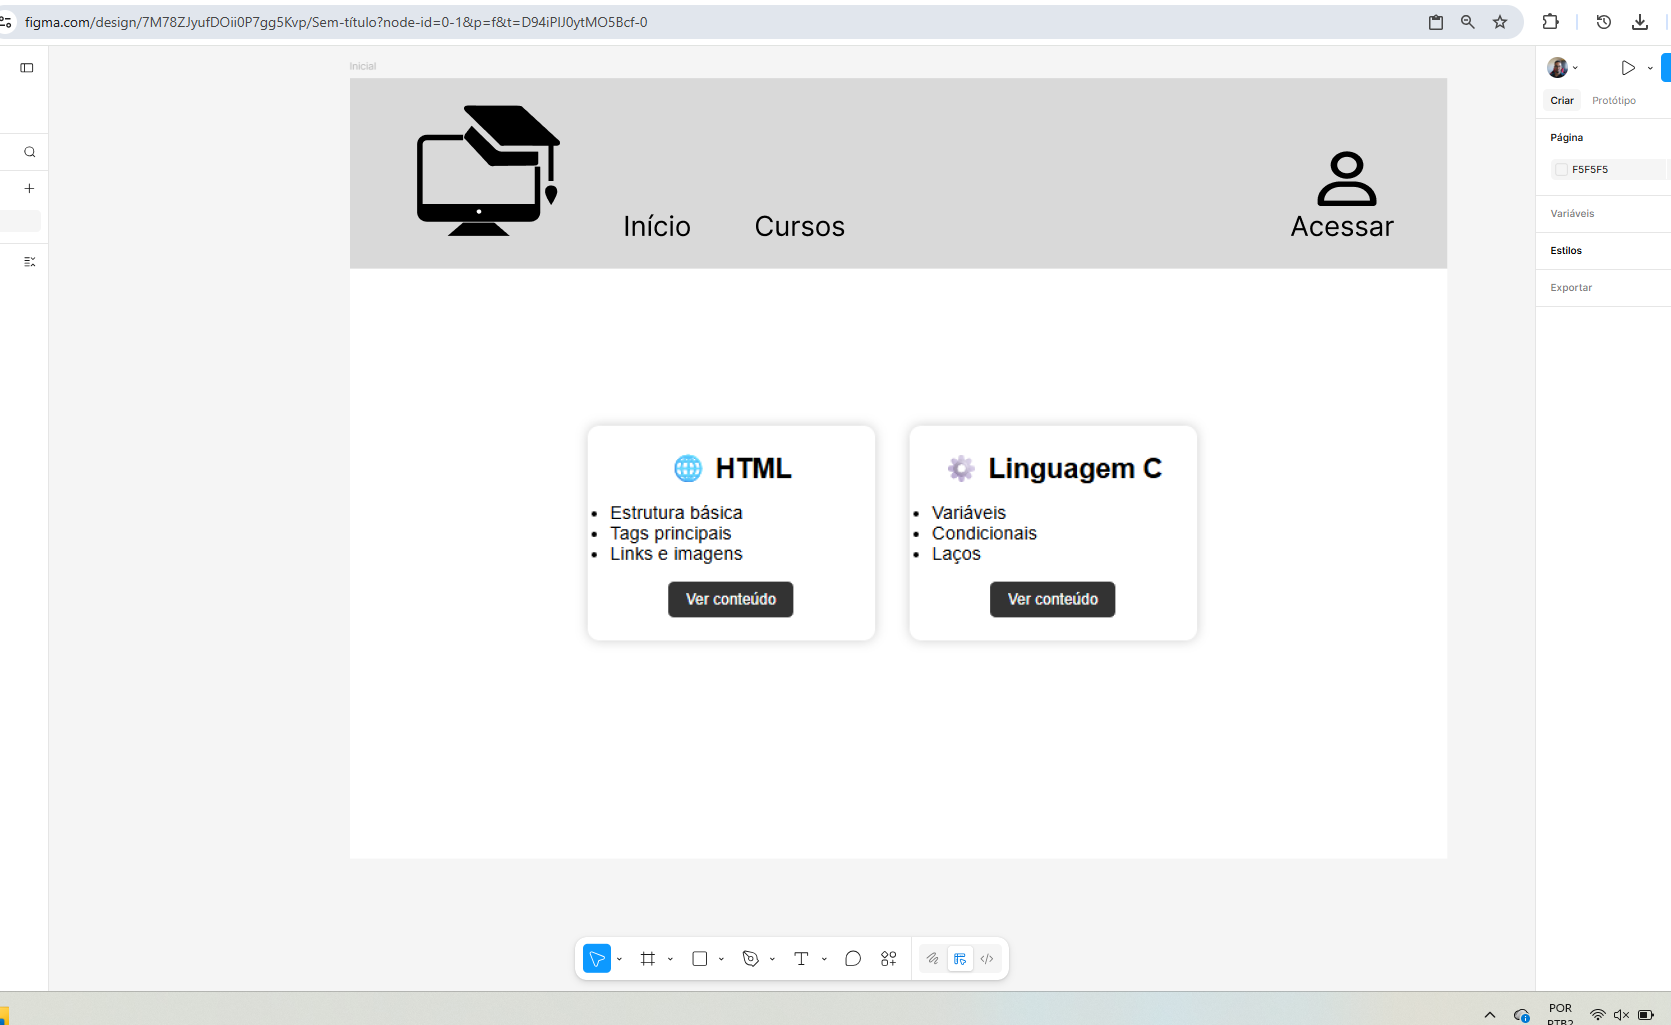
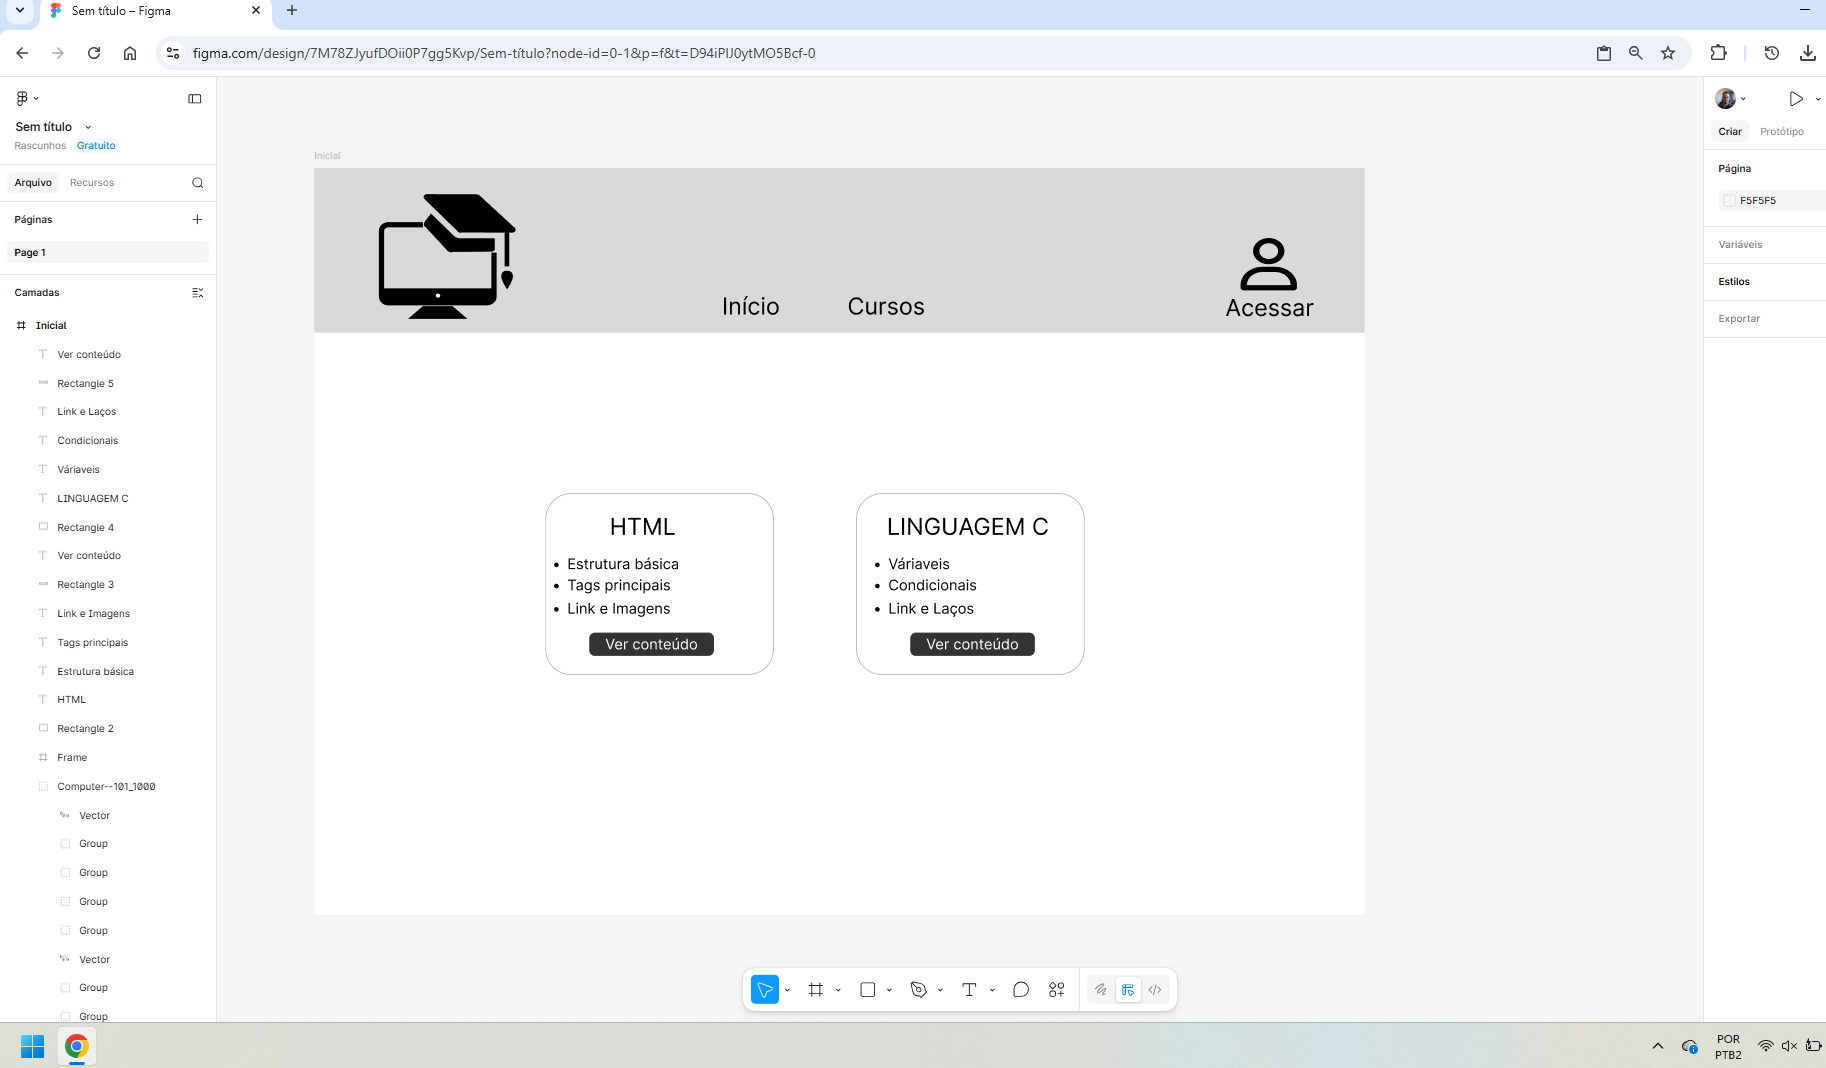
começando a criar

diff --git a/site/css/index.css b/site/css/index.css
@@ -1,0 +1,101 @@
+/* RESET BÁSICO */
+* {
+    margin: 0;
+    padding: 0;
+    box-sizing: border-box;
+    font-family: Arial, sans-serif;
+}
+
+/* HEADER */
+header {
+    background: #D9D9D9;
+    display: flex;
+    justify-content: space-between;
+    align-items: flex-end;
+    padding: 15px 40px;
+}
+
+
+/* LOGO */
+.logo {
+    font-size: 24px;
+}
+
+/* MENU */
+nav {
+    display: flex;
+    gap: 40px;
+}
+
+nav a {
+    text-decoration: none;
+    color: black;
+    font-size: 24px;
+}
+
+/* LOGIN (ícone em cima e texto embaixo) */
+.login {
+    display: flex;
+    flex-direction: column; /* ESSA LINHA faz o texto ir pra baixo */
+    align-items: center;
+    font-size: 22px;
+    cursor: pointer;
+}
+
+.login .icon {
+    font-size: 24px;
+}
+
+/* ÁREA PRINCIPAL */
+main {
+    height: calc(100vh - 80px);
+    display: flex;
+    justify-content: center;
+    align-items: center;
+}
+
+/* CONTAINER DOS CARDS */
+.container {
+    display: flex;
+    gap: 40px;
+}
+
+/* CARD */
+.card {
+    background: #eaeaea;
+    padding: 25px;
+    width: 260px;
+    border-radius: 12px;
+    box-shadow: 0 5px 10px rgba(0,0,0,0.15);
+    text-align: center;
+}
+
+/* TÍTULO DO CARD */
+.card h2 {
+    margin-bottom: 15px;
+}
+
+/* LISTA */
+.card ul {
+    text-align: left;
+    margin-bottom: 20px;
+}
+
+.card li {
+    margin: 5px 0;
+}
+
+/* BOTÃO */
+.card button {
+    background: #333;
+    color: white;
+    border: none;
+    padding: 8px 15px;
+    border-radius: 6px;
+    cursor: pointer;
+}
+
+/* EFEITO AO PASSAR O MOUSE */
+.card button:hover {
+    background: #555;
+}

diff --git a/site/pages/index.html b/site/pages/index.html
@@ -1,0 +1,64 @@
+<!DOCTYPE html>
+<html lang="pt-br">
+<head>
+    <meta charset="UTF-8">
+    <meta name="viewport" content="width=device-width, initial-scale=1.0">
+
+    <!-- Ligação com o CSS -->
+    <link rel="stylesheet" href="../css/index.css">
+
+    <title>EduCode</title>
+</head>
+<body>
+
+    <!-- HEADER -->
+    <header>
+        <!-- Logo -->
+        <div class="logo">
+            <img src="../images/logo.png">
+        </div>
+
+        <!-- Menu -->
+        <nav>
+            <a href="index.html">Início</a>
+            <a href="#">Cursos</a>
+        </nav>
+
+        <!-- Login -->
+        <div class="login">
+            <img src="../images/login.png">
+            <span>Acessar</span>
+        </div>
+    </header>
+
+    <!-- CONTEÚDO PRINCIPAL -->
+    <main>
+        <div class="container">
+
+            <!-- CARD HTML -->
+            <div class="card">
+                <h2>HTML</h2>
+                <ul>
+                    <li>Estrutura básica</li>
+                    <li>Tags principais</li>
+                    <li>Links e imagens</li>
+                </ul>
+                <button>Ver conteúdo</button>
+            </div>
+
+            <!-- CARD C -->
+            <div class="card">
+                <h2>Linguagem C</h2>
+                <ul>
+                    <li>Variáveis</li>
+                    <li>Condicionais</li>
+                    <li>Laços</li>
+                </ul>
+                <button>Ver conteúdo</button>
+            </div>
+
+        </div>
+    </main>
+
+</body>
+</html>